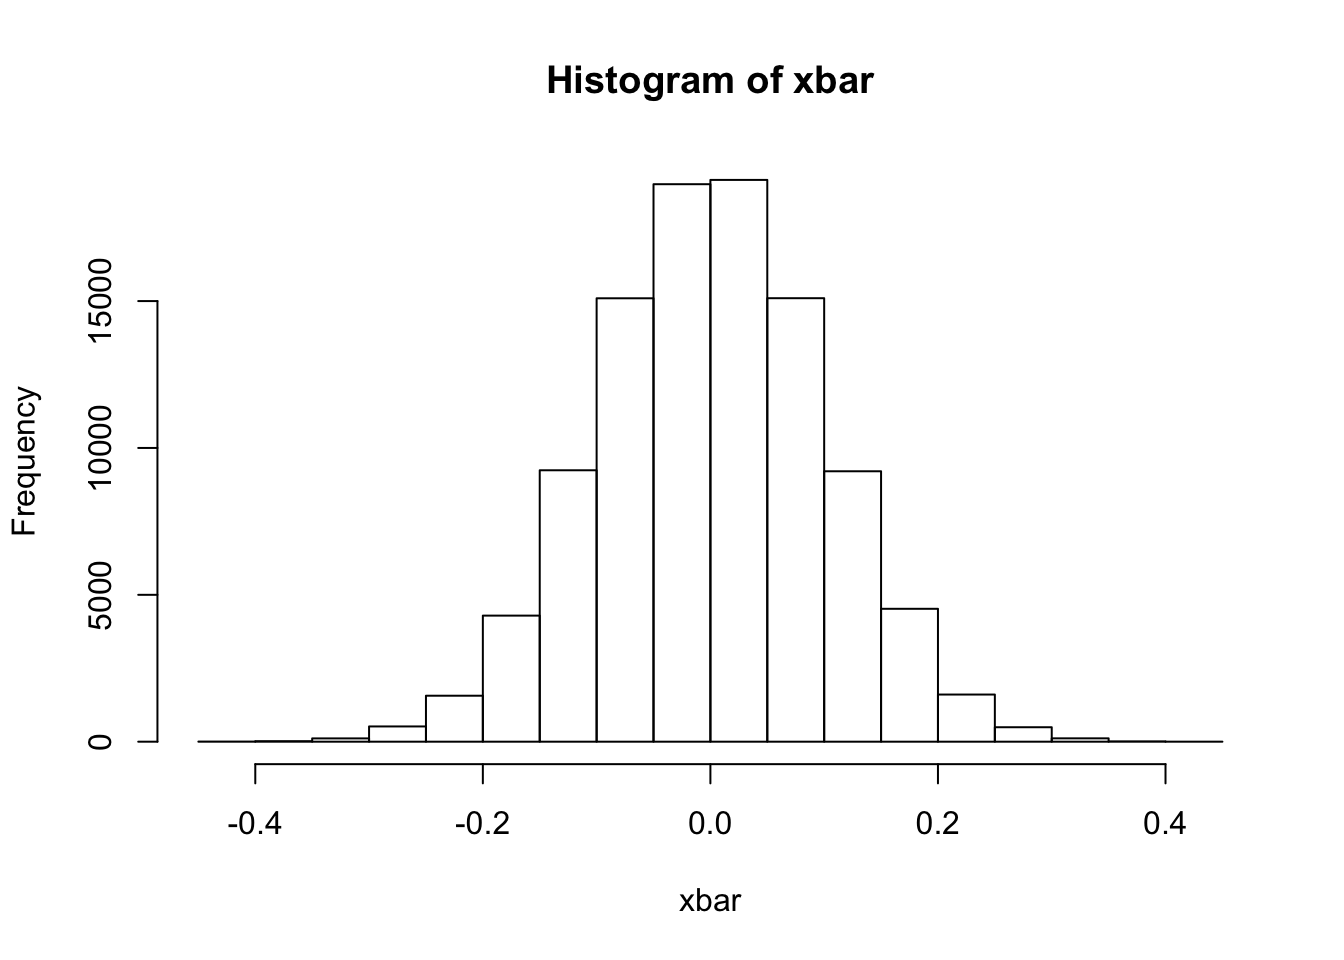
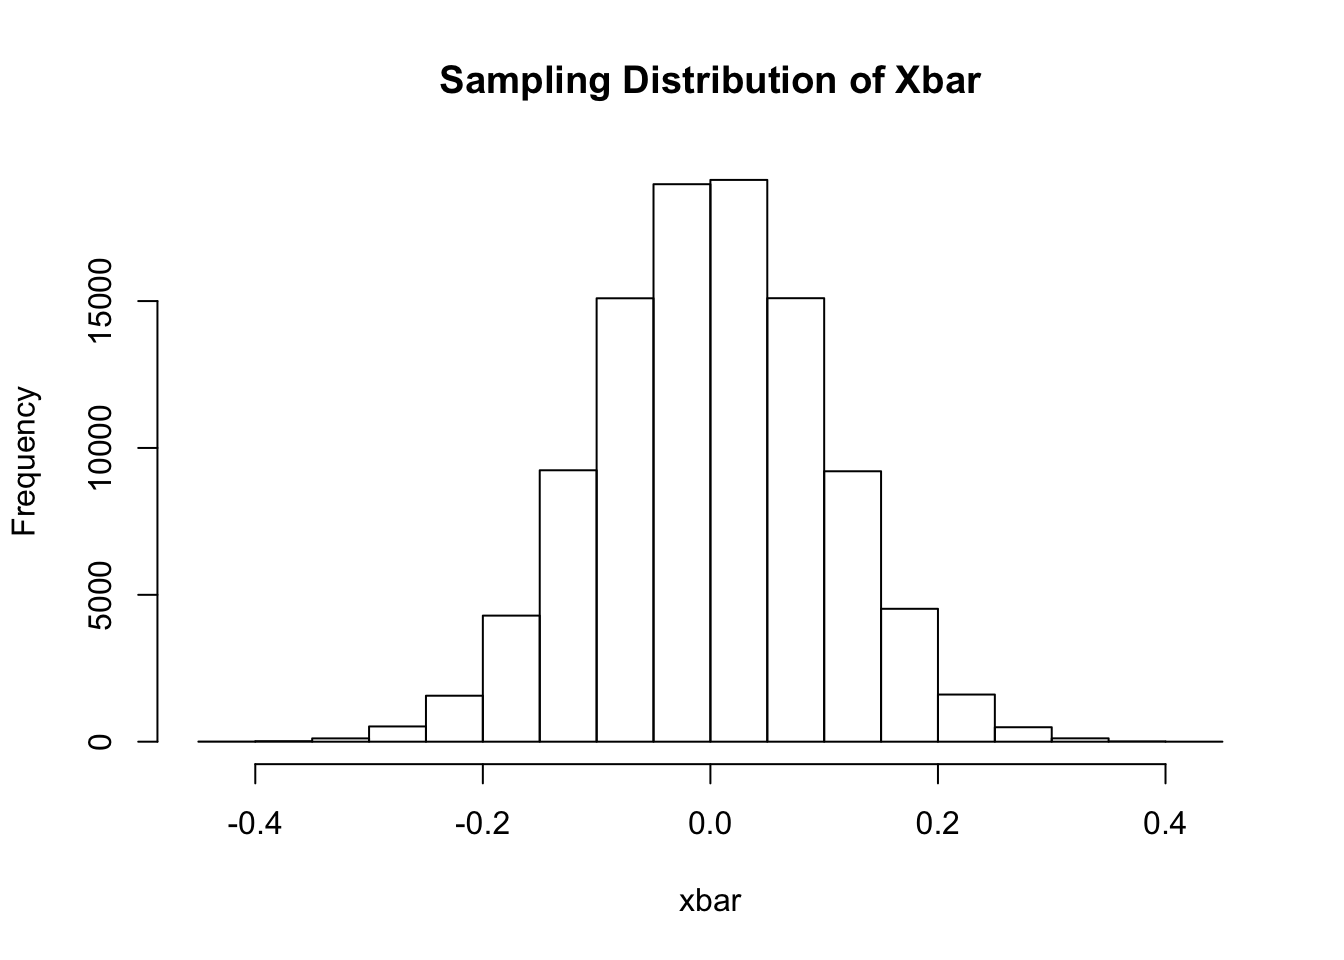
updated formatting

Changed region(s): [[0.3125, 0.0625, 0.75, 0.125]]

diff --git a/docs/sampling-distributions-and-the-clt.html b/docs/sampling-distributions-and-the-clt.html
@@ -200,7 +200,7 @@ code span.wa { color: #60a0b0; font-weight: bold; font-style: italic; } /* Warni
 <div class="sourceCode" id="cb73"><pre class="sourceCode r"><code class="sourceCode r"><a class="sourceLine" id="cb73-1" data-line-number="1">x =<span class="st"> </span><span class="kw">rnorm</span>(<span class="dt">n=</span><span class="dv">100</span>, <span class="dt">mean=</span><span class="dv">0</span>, <span class="dt">sd=</span><span class="dv">1</span>)</a>
 <a class="sourceLine" id="cb73-2" data-line-number="2"><span class="kw">mean</span>(x)</a></code></pre></div>
 <pre><code>## [1] 0.008768</code></pre>
-<div class="sourceCode" id="cb75"><pre class="sourceCode r"><code class="sourceCode r"><a class="sourceLine" id="cb75-1" data-line-number="1"><span class="kw">hist</span>(x)</a></code></pre></div>
+<div class="sourceCode" id="cb75"><pre class="sourceCode r"><code class="sourceCode r"><a class="sourceLine" id="cb75-1" data-line-number="1"><span class="kw">hist</span>(x, <span class="dt">main=</span><span class="st">&quot;Sample Distribution&quot;</span>)</a></code></pre></div>
 <p><img src="_main_files/figure-html/unnamed-chunk-46-1.png" width="672" /></p>
 <p>While we cannot generate <em>all possible samples</em> of size <span class="math inline">\(n\)</span> from this normal distribution, we can take a large number.</p>
 <p>Let <span class="math inline">\(R=100,000\)</span> be the number of samples we want to generate. We will construct a for loop in R to do the following: (1) generate a random sample of size <span class="math inline">\(n\)</span> from the population; (2) compute the sample mean and store the result in a vector called <code>xbar</code>.</p>
@@ -210,7 +210,7 @@ code span.wa { color: #60a0b0; font-weight: bold; font-style: italic; } /* Warni
 <a class="sourceLine" id="cb76-4" data-line-number="4">    x =<span class="st"> </span><span class="kw">rnorm</span>(<span class="dt">n=</span><span class="dv">100</span>, <span class="dt">mean=</span><span class="dv">0</span>, <span class="dt">sd=</span><span class="dv">1</span>)</a>
 <a class="sourceLine" id="cb76-5" data-line-number="5">    xbar[r] =<span class="st"> </span><span class="kw">mean</span>(x)</a>
 <a class="sourceLine" id="cb76-6" data-line-number="6">}</a>
-<a class="sourceLine" id="cb76-7" data-line-number="7"><span class="kw">hist</span>(xbar)</a></code></pre></div>
+<a class="sourceLine" id="cb76-7" data-line-number="7"><span class="kw">hist</span>(xbar, <span class="dt">main=</span><span class="st">&quot;Sampling Distribution of Xbar&quot;</span>)</a></code></pre></div>
 <p><img src="_main_files/figure-html/unnamed-chunk-47-1.png" width="672" /></p>
 <p>This plot is the distribution of sample means after taking <span class="math inline">\(R=100,000\)</span> samples with size <span class="math inline">\(n=100\)</span> from the population.</p>
 <p>Notice that this again looks like a normal distribution. The mean looks the same as the distribution of <span class="math inline">\(X\)</span>, but the variance looks much smaller.</p>
@@ -234,7 +234,7 @@ code span.wa { color: #60a0b0; font-weight: bold; font-style: italic; } /* Warni
 <a class="sourceLine" id="cb82-4" data-line-number="4">  x =<span class="st"> </span><span class="kw">rexp</span>(<span class="dt">n=</span><span class="dv">100</span>, <span class="dt">rate=</span><span class="dv">1</span>)</a>
 <a class="sourceLine" id="cb82-5" data-line-number="5">  xbar[r] =<span class="st"> </span><span class="kw">mean</span>(x)</a>
 <a class="sourceLine" id="cb82-6" data-line-number="6">}</a>
-<a class="sourceLine" id="cb82-7" data-line-number="7"><span class="kw">hist</span>(xbar)</a></code></pre></div>
+<a class="sourceLine" id="cb82-7" data-line-number="7"><span class="kw">hist</span>(xbar, <span class="dt">main=</span><span class="st">&quot;Sampling Distribution of Xbar&quot;</span>)</a></code></pre></div>
 <p><img src="_main_files/figure-html/unnamed-chunk-50-1.png" width="672" /></p>
 <p>The distribution of sample means again looks normal!</p>
 <p>In fact, the <strong>Central Limit Theorem</strong> guarantees that this will be the case as the sample size <span class="math inline">\(n\)</span> gets large. Then for any population distribution, we know that the distribution of <span class="math inline">\(\bar{X}\)</span> will be <em>approximately</em> normal with mean <span class="math inline">\(E(\bar{X})=E(X)\)</span> and <span class="math inline">\(Var(\bar{X})=Var(X)/n\)</span>.</p>

diff --git a/docs/computing-probabilities.html b/docs/computing-probabilities.html
@@ -251,7 +251,7 @@ code span.wa { color: #60a0b0; font-weight: bold; font-style: italic; } /* Warni
 <p>We have two ways of answering this question. First, we can recognize that <span class="math inline">\(P(X&gt;1)=1-P(X\geq 1)\)</span>.</p>
 <div class="sourceCode" id="cb29"><pre class="sourceCode r"><code class="sourceCode r"><a class="sourceLine" id="cb29-1" data-line-number="1"><span class="dv">1</span><span class="op">-</span><span class="kw">pnorm</span>(<span class="dv">1</span>, <span class="dt">mean=</span><span class="dv">0</span>, <span class="dt">sd=</span><span class="dv">1</span>)</a></code></pre></div>
 <pre><code>## [1] 0.1587</code></pre>
-<p>A second approach is to use the <code>lower.tail=</code> option within the pnorm( ) function. When <code>lower.tail=TRUE</code> then the <code>pnorm( )</code> function returns the probability to the <em>left</em> of a given number <span class="math inline">\(x\)</span> and if <code>lower.tail=FALSE</code> then <code>pnorm( )</code> returns the probability to the <em>right</em> of <span class="math inline">\(x\)</span>.</p>
+<p>A second approach is to use the <code>lower.tail=</code> option within the <code>pnorm( )</code> function. When <code>lower.tail=TRUE</code> then the <code>pnorm( )</code> function returns the probability to the <em>left</em> of a given number <span class="math inline">\(x\)</span> and if <code>lower.tail=FALSE</code> then <code>pnorm( )</code> returns the probability to the <em>right</em> of <span class="math inline">\(x\)</span>.</p>
 <div class="sourceCode" id="cb31"><pre class="sourceCode r"><code class="sourceCode r"><a class="sourceLine" id="cb31-1" data-line-number="1"><span class="kw">pnorm</span>(<span class="dv">1</span>, <span class="dt">mean=</span><span class="dv">0</span>, <span class="dt">sd=</span><span class="dv">1</span>, <span class="dt">lower.tail=</span><span class="ot">FALSE</span>)</a></code></pre></div>
 <pre><code>## [1] 0.1587</code></pre>
 <p><br>
